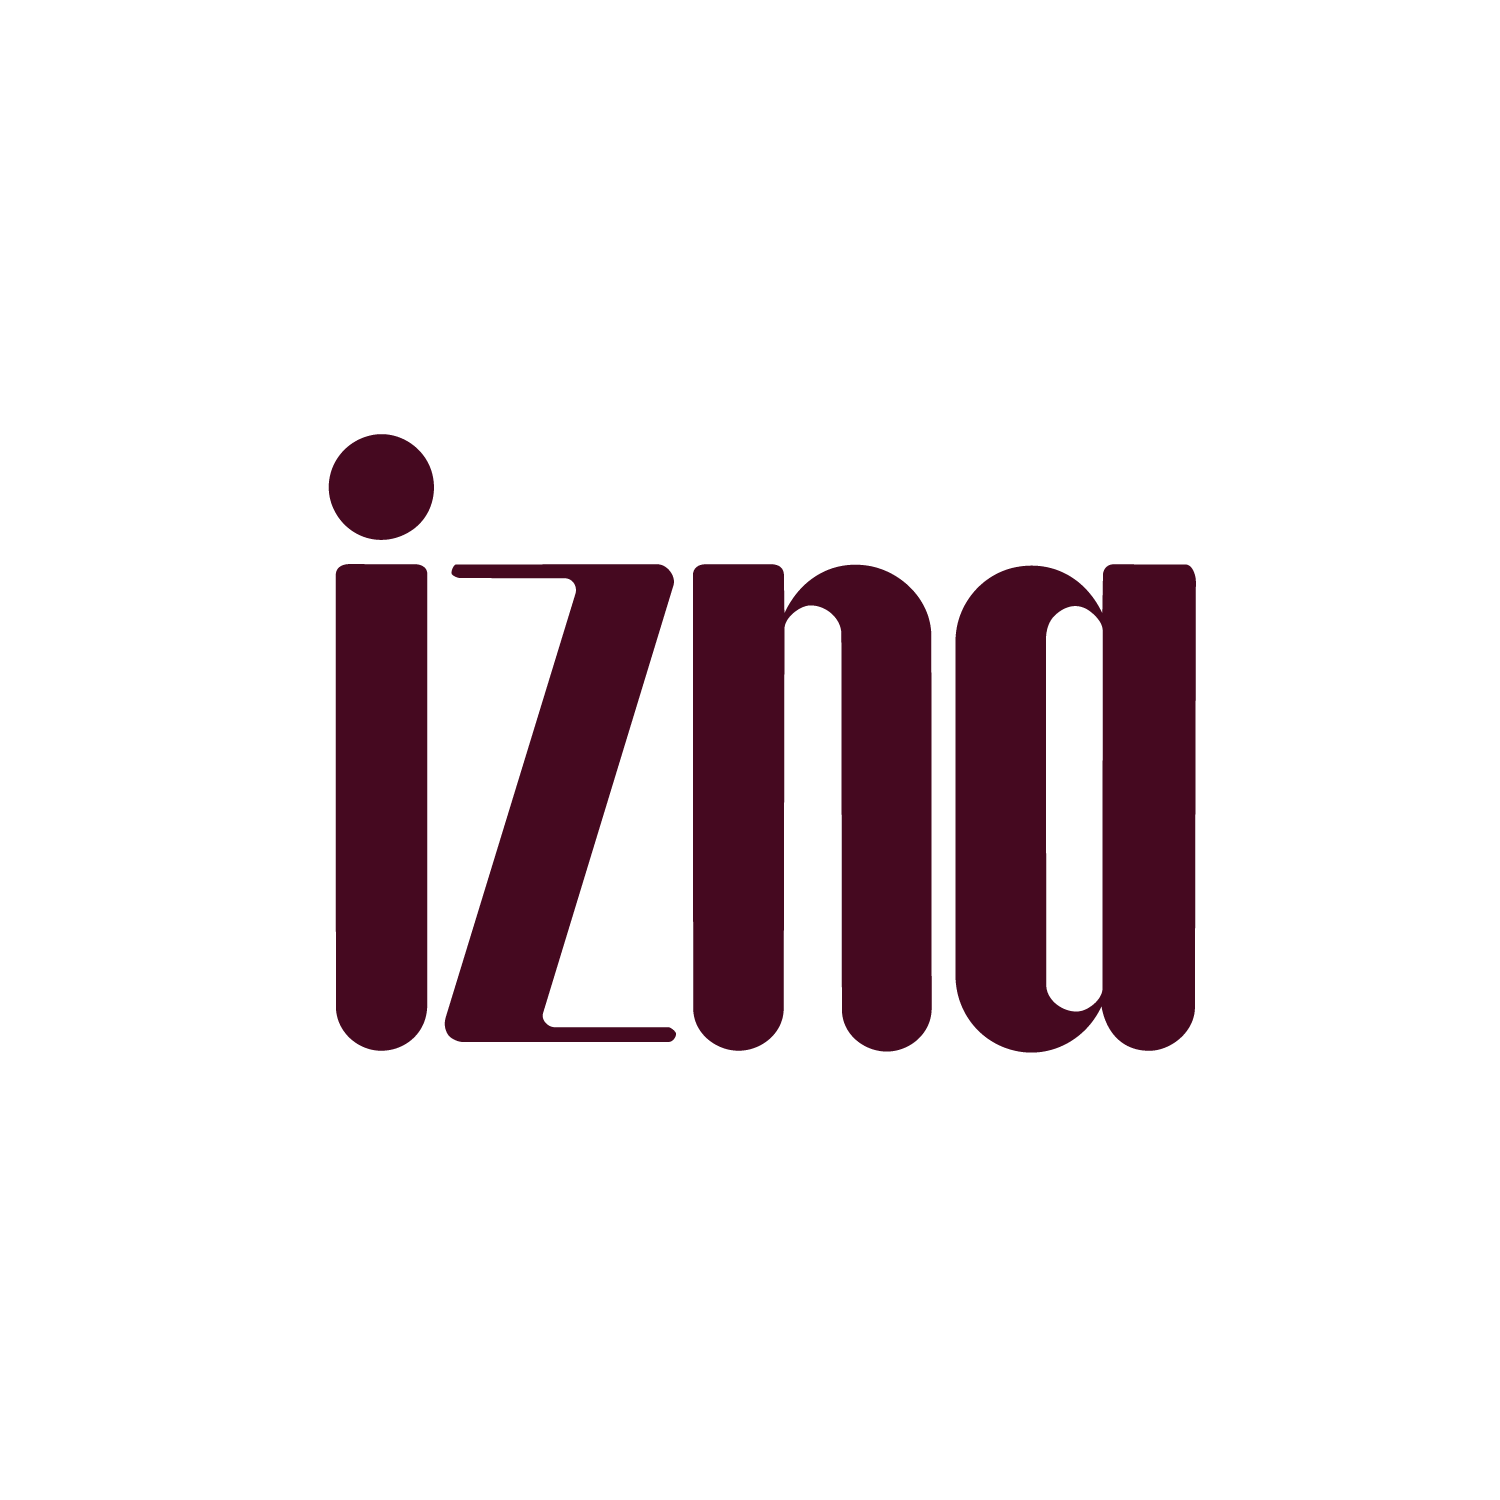
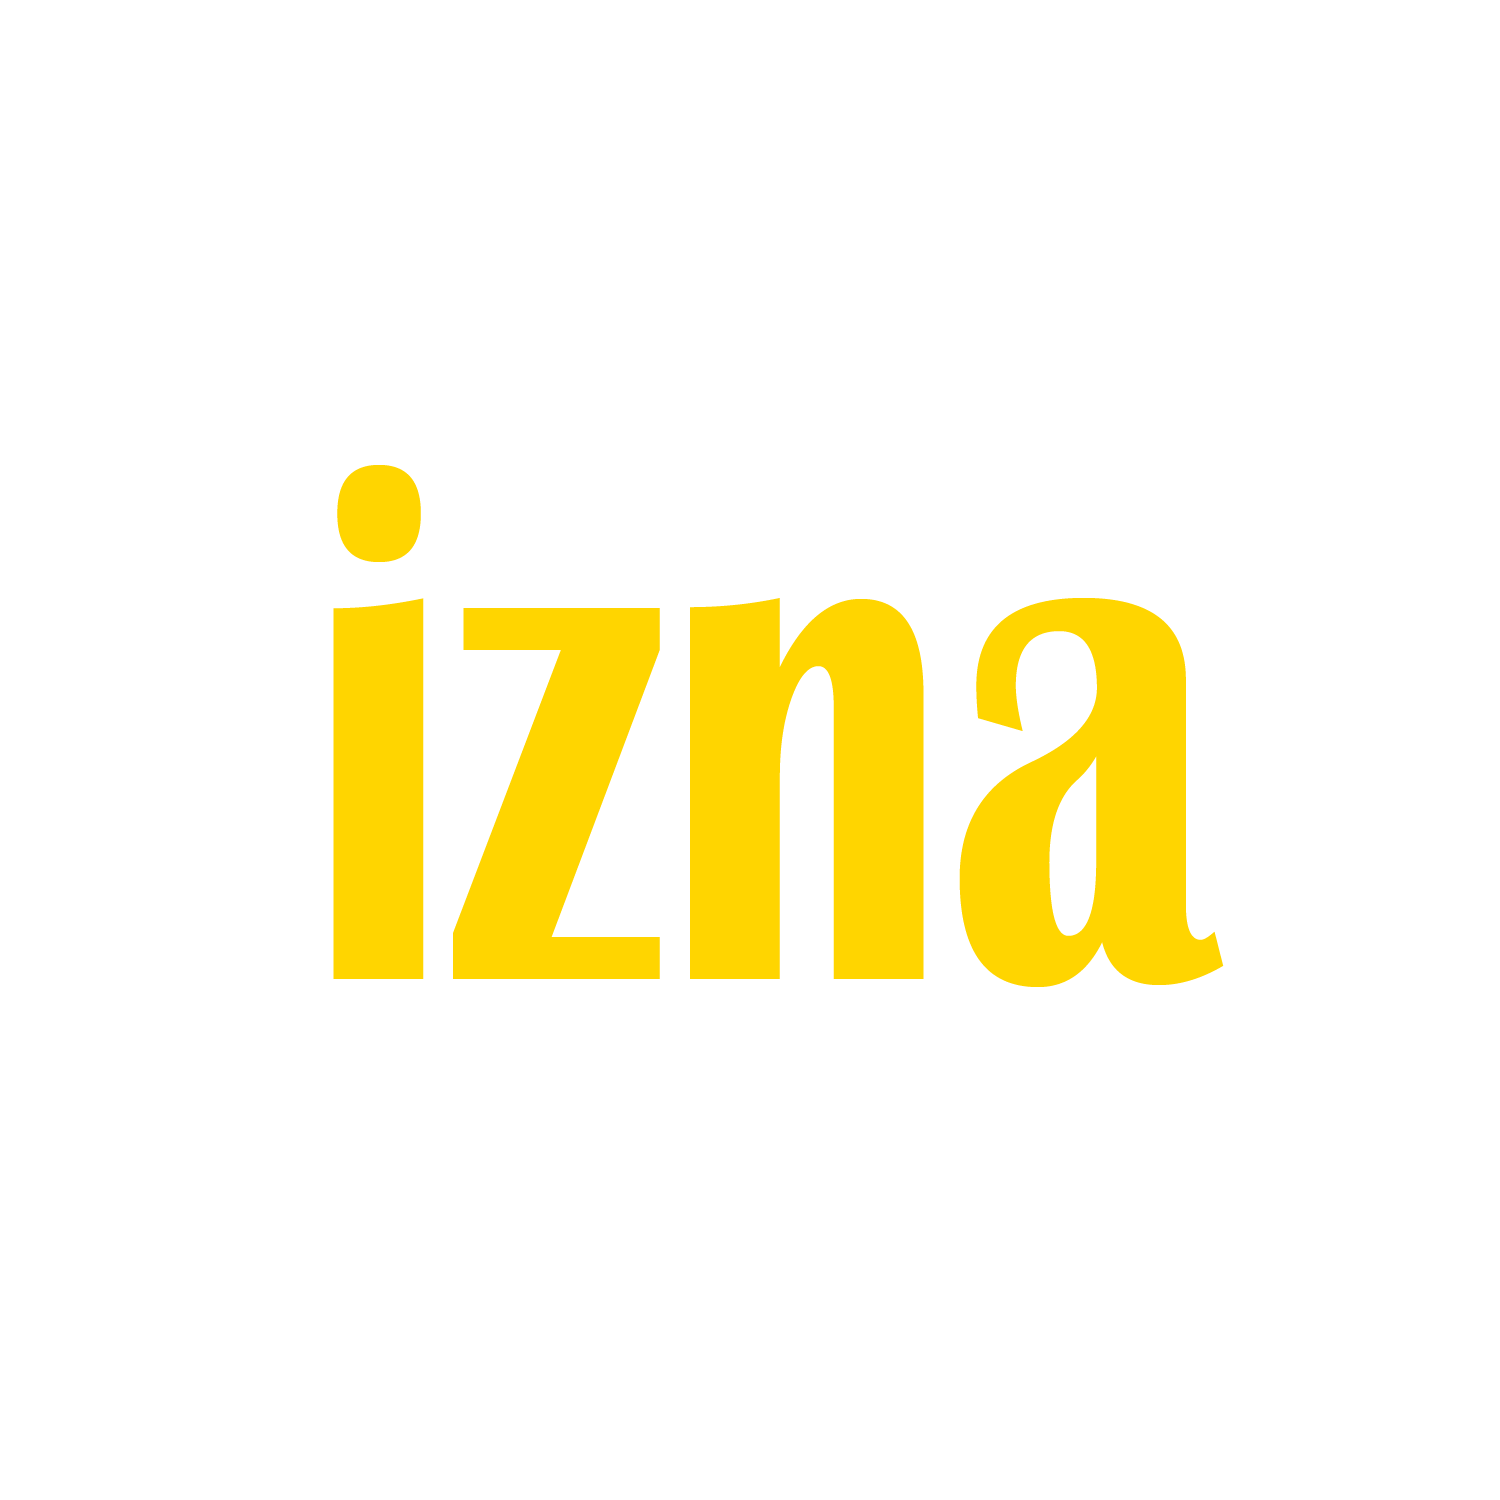
upade

Changed region(s): [[0.2147, 0.276, 0.828, 0.7053]]

diff --git a/css/ex2.css b/css/ex2.css
@@ -1,21 +1,35 @@
 
 @import url('https://fonts.googleapis.com/css2?family=Golos+Text:wght@400..900&display=swap');
+@import url('https://fonts.googleapis.com/css2?family=DM+Sans:ital,opsz,wght@0,9..40,100..1000;1,9..40,100..1000&family=Golos+Text:wght@400..900&family=Noto+Sans+TC:wght@100..900&family=Roboto:ital,wght@0,100..900;1,100..900&display=swap');
+
+/* 讓跳轉帶有滑順的滾動動畫，而不是瞬間閃過去 */
+html {
+  scroll-behavior: smooth;
+}
+
+/* 避免跳轉時標題被上方 fixed 的 header 遮住 */
+section {
+  scroll-margin-top: 100px; /* 數值可依據 header 的高度微調 */
+}
 
 body{
     padding: 0;
     margin: 0;
     font-size: 1.2rem;
     font-family: 'Golos Text', cursive;
+    background-color: #ffffff;
 }
 
 a{
-    text-decoration: none;
-    color: rgba(69, 9, 32, 1);
-    display: inline-block;
+    text-decoration:none !important;
+    outline:none;
+    color: rgb(255, 213, 0);
+    display:inline-block;
 }
 
 a:hover{
-    color: rgba(69, 9, 32, .5);
+   color: rgba(255, 255, 255);
+    
 }
 
 /*header*/
@@ -25,6 +39,11 @@ header{
     width: 100%;
     height: auto;
     z-index: 200000;
+    background: linear-gradient(
+     to bottom,
+     rgba(255, 213, 0, 0.53),
+     rgba(255, 213, 0, 0)
+    );
 }
 
 /*menu*/
@@ -47,6 +66,19 @@ header{
     margin: auto;
 }
 
+/* 1. 預設先隱藏第二張圖 */
+.logo .img-hover {
+  display: none;
+}
+
+/* 2. 當滑鼠碰到 logo 或連結時：隱藏第一張圖、顯示第二張圖 */
+.logo a:hover .img-default {
+  display: none;
+}
+
+.logo a:hover .img-hover {
+  display: block;
+}
 
 /*nav*/
 nav{
@@ -81,14 +113,14 @@ nav a:hover{
     top: 10%;
     left: 10%;
     font-size: 150px;
-    color: rgba(69, 9, 32, 1);
+    color: rgb(255, 213, 0);
 }
 
 .hero p{
     position: absolute;
     top: 50%;
     left: 10%;
-    color: rgba(69, 9, 32, 1);
+    color: rgb(255, 213, 0);
 }
 
 /*header*/
@@ -109,7 +141,7 @@ section{
 }
 
 section h1{
-    color:rgba(69, 9, 32, 1);
+    color:rgb(255, 213, 0);
     text-align: center;
 }
 
@@ -121,6 +153,12 @@ section h1{
 	padding:10px;
 	text-align:center;
 	cursor:pointer;
+}
+
+.card:hover h2,
+.card:hover h3,
+.card:hover p {
+  color: rgba(255, 213, 0, 0.53); /* 填入你想換的顏色，如白色 #ffffff 或淡粉色 */
 }
 
 .card img{
@@ -171,6 +209,7 @@ article:hover{
 	width:100%;
     height:100%;
 	object-fit:cover;
+    border-radius: 8px 0px 0px 8px;
 }
 
 .a_right{
@@ -180,11 +219,12 @@ article:hover{
 	padding: 4%;
 	box-sizing:border-box;
 	background:rgba(255, 255, 255, 1);
-	color:rgba(69, 9, 32, 1);
+	color:rgb(255, 213, 0, 1);
 	text-align:left;
     line-height: 2rem;
     transition: color 0.5s, background 0.5s;
 	-webkit-transition: color 0.5s, background 0.5s; /*前綴詞*/
+    border-radius: 0 8px 8px 0;
 	
 	transition-timing-function:linear;
 	-webkit-transition-timing-function: linear;/* Safari */
@@ -197,12 +237,13 @@ article:hover{
 	left:50%;
 	transform: translate(-50%, -50%);
 	
-	background:rgba(69, 9, 32, 1);
+	background:rgba(255, 213, 0, 1);
 	padding:30px;
 	color: rgba(255, 255, 255, 1);
     opacity:0;
 	transition: opacity 1s;
 	-webkit-transition: opacity 1s;/*前綴詞*/
+    border-radius: 8px;
 	
 	transition-timing-function: ease-in-out;
 	-webkit-transition-timing-function: ease-in-out;/* Safari */
@@ -216,15 +257,17 @@ article:hover .moreb{
 
 article:hover .a_right{
 	background:rgba(245, 234, 216, 1);
-    color:rgba(69, 9, 32, 1);
+    color:rgba(255, 213, 0, 1);
 }
 
 /*footer*/
 footer{
     clear: both;
     width: 100%;
-    padding: 50px 0px;
+    padding: 20px 0px;
     text-align: center;
+
+    color:rgba(255, 213, 0, 1);
 }
 
 

diff --git a/index.html b/index.html
@@ -3,7 +3,7 @@
 
 <head><!--設定頁面基本資訊+外部連結-->
 <meta charset="utf-8">
-<title>EATNA</title>
+<title>izna</title>
 <link href="css/ex2.css" rel="stylesheet" type="text/css">
 </head>
 
@@ -14,31 +14,34 @@
     <div class="menu">
         <!--logo-->
         <div class="logo">
-            <a href="p2.html">
-            <img src="images/1009.png">
+            <a href="https://www.instagram.com/izna_offcl/?hl=en">
+            <img class="img-default" src="images/1009.png" alt="izna logo">
+            <img class="img-hover" src="images/10091.png" alt="izna logo hover">
             </a>
         </div>
         <!--nav-->
         <nav>
-            <a href="p2.html">Foodies</a>
-            <a href="p2.html">Menut</a>
-            <a href="p2.html">Order</a>
+            <a href="#girls">GIRLS</a>
+            <a href="https://open.spotify.com/playlist/4K7sadR1lGhg6zEnRBv5FE?si=9Sv0qd02Qq6gniiygc9fAA&utm_source=copy-link&pi=-iHlmsetQTahg">SETLIST</a>
+            <a href="#moments">MOMENTS</a>
         </nav>
         
 </header>
 
 <!--hero-->
 <div class="hero">
-    <img src="images/57935.jpg" alt="hero">
-    <h1>EATNA</h1>
-    <p>추억은 아름답게 둘래, 
-So goodbye, have a nice day, 
-단, 하나만 기억해, that I-I, I will always hungry.</p>
+    <img src="images/58500.jpg" alt="hero">
+    <h1>10.09</h1>
+    <p>2026 izna Concert Tour: WHO DAT GIRL? in TAIPEI</p>
 </div>
 
 <!--card section-->
 <section>
-    <h1>— Meet the Foodies —</h1>
+
+    <section id="girls">
+    <h1>GIRLS</h1>
+    </section>
+
         <!--card-->
         <div class="card">
             <a href="#">
@@ -97,18 +100,22 @@ So goodbye, have a nice day,
 
 <!--description section-->
 <section>
-    <h1>— EATNA Food Rules —</h1>
+
+    <section id="moments">
+    <h1>MOMENTS</h1>
+    </section>
+
     <article>
         
         <div class="a_left">
-            <img src="images/57926.jpg" />
-            <a href="http://google.com">    
-                <div class="moreb">Eat More</div>
+            <img src="images/58501_0.jpg" />
+            <a href="https://www.instagram.com/izna_offcl/?hl=en">    
+                <div class="moreb">More</div>
             </a>
         </div>
 
         <div class="a_right">
-            <h2>Eating is Instinct, Passion is Attitude</h2>
+            <h2>See you next time!</h2>
             <p>In EATNA’s world, there are no diets—just the sweet question of what to eat next. From crunchy Dubai chocolates in our bags to late-night fried chicken and carb parties, every bite fuels our singing and dancing. Remember our golden rule: when life gets confusing, take a bite of dessert first!</p>
         </div>
 
@@ -120,7 +127,9 @@ So goodbye, have a nice day,
 
 
 <!--footer-->
+<footer>
 &copy;All Right Reserved.
+</footer>
 
 </body>
 </html>
